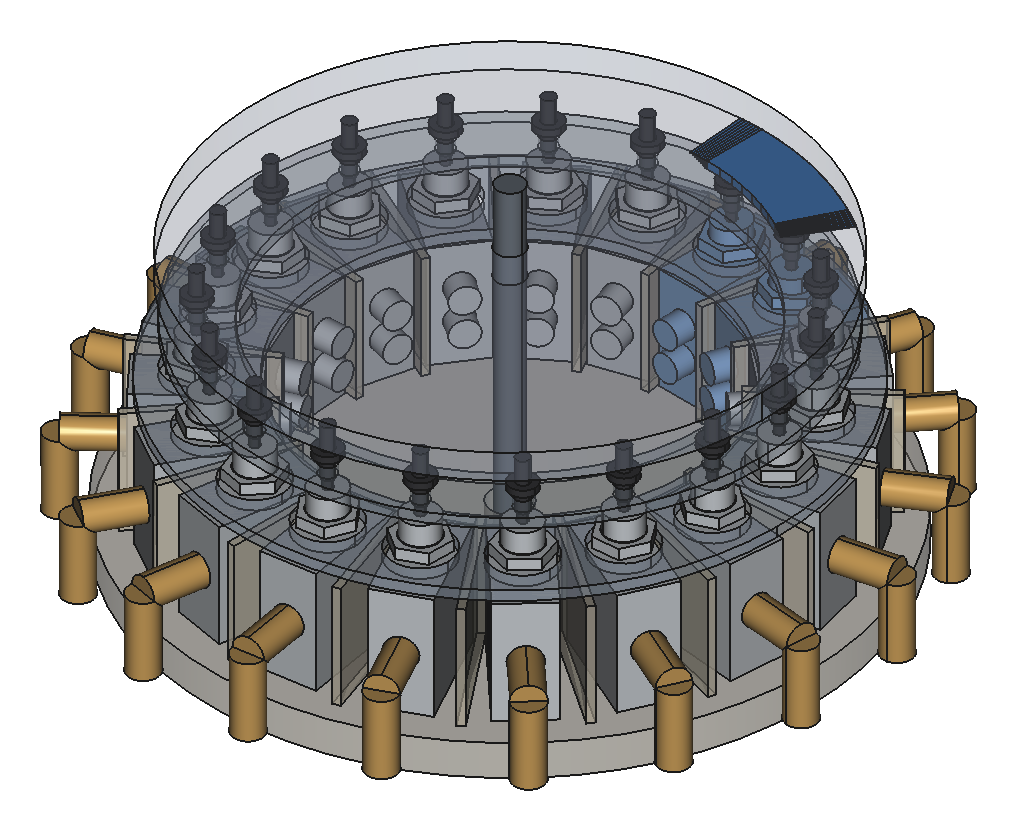
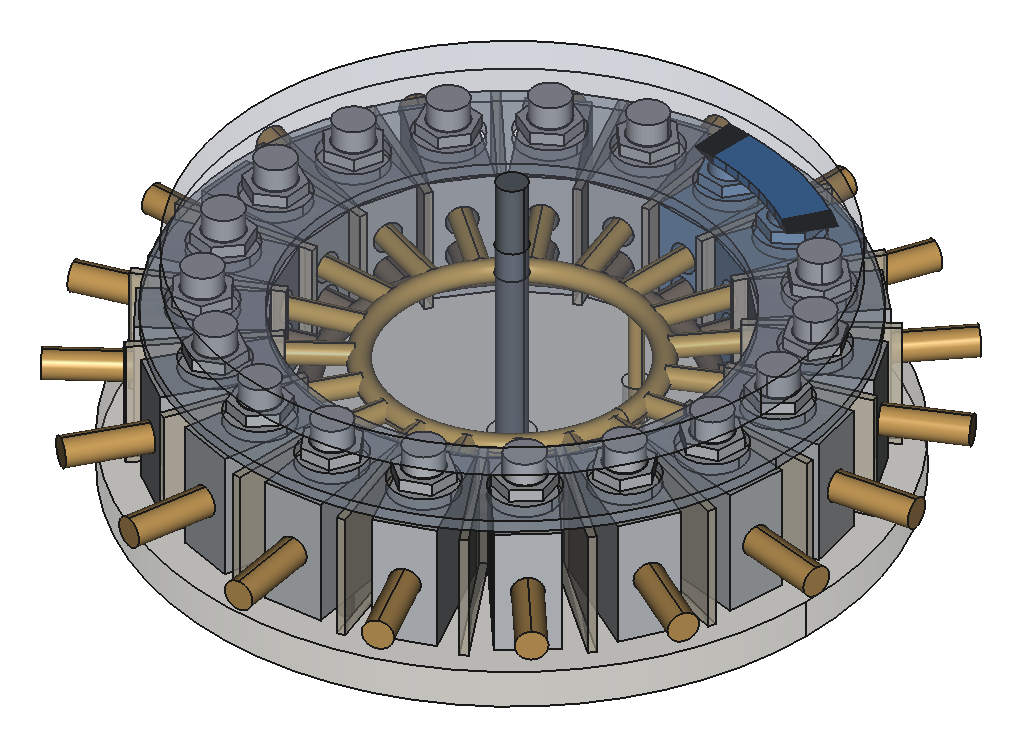
Drop the pushers and run straight tubes to two manifolds.
The cam now bears on the buttons: 0.3 mm off a free one, 2.0 mm
down on a pressed one, 0.4 mm short of the valve stop. A leaves
radially, P and R run inward to a supply ring and an exhaust ring,
and each ring has a straight pipe down through the plate.

diff --git a/mitrailleuse/valve_head.py b/mitrailleuse/valve_head.py
@@ -8,10 +8,14 @@ The ring numbers come from valve_rotor.py. Ports, from the order drawing and the
 holes and no ports.
 
 Stack, muzzle at z = 0, breech toward +z. The head plate is the existing disc (R 98, 10 mm). On its
-breech face a cage of ribs holds the bodies, a retainer clamps them, and a guide ring limits each
-pusher to 2.2 mm so it cannot drive the button past the valve's 2.4 mm stop. The face cam rises
-2.3 mm: 0.3 mm of that is running clearance, so a free button is not rubbed and a pressed one is
-down 2.0 mm.
+breech face a cage of ribs holds the bodies and a retainer clamps them. The face cam bears on the
+buttons themselves: its face sits 0.3 mm off a free button and the lobe presses 2.0 mm, short of
+the valve's own 2.4 mm stop. No separate pushers.
+
+Tubes are straight. A leaves the outer face radially, past the plate rim. P and R run inward to
+two rings (supply is the upper ring, exhaust the lower one). Each ring has its own straight pipe
+down through the plate, so the supply and the exhaust both come out under the head. The cam is a
+solid disc, so those pipes cannot rise through it.
 
   freecadcmd -c "REPO='$PWD'; exec(open('mitrailleuse/valve_head.py').read())"
 """
@@ -43,18 +47,21 @@ PLATE_R, PLATE_T = VR["HEAD_PLATE_R"], 10.0
 PLATE_BORE = 12.0
 SHAFT_D = 8.0
 DEPRESS = VR["PRESS"]        # button travel under the lobe
-APPROACH = 0.3               # base circle stays this clear of a free pusher
+APPROACH = 0.3               # disc face stays this clear of a free button
 LOBE_H = DEPRESS + APPROACH  # 2.3; the valve's own stop is 2.4
-HARD = 2.2                   # pusher flange hits the guide here, short of 2.4
-PUSHER_L = 18.0
-PUSHER_D, NOSE_D = 4.0, 3.0
 PORT_D = 8.0                 # Rc1/8, shown as a plain hole; the thread is not modelled
 PORT_PITCH = 9.5             # order drawing, P to R along the button axis
+SPOKE_OD = 6.0               # straight tubes, P and R; thinner than the port so they clear
+A_OD = 8.0                   # straight tube on A
+A_STICKOUT = 22.0            # past the outer face; the plate rim is inside this
+MAN_R_P, MAN_R_R = 36.0, 48.0
+MAN_TUBE_R = 3.0             # ring tube radius; the two rings stay 9.5 mm apart in z
+FEED_OD = 4.0
+FEED_DOWN = 22.0             # both pipes stick out of the muzzle face of the plate
 POCKET_CLEAR = 0.4           # valve drops into the cage
 RIB_T = 2.2                  # thinner than the 3 mm inner-corner gap
 RETAINER_T = 3.0
 RETAINER_HOLE = 18.0         # clears the nut's corners (14 mm across flats is 16.2 across corners)
-GUIDE_T = 3.0
 CAM_T = 8.0
 FITS = []
 
@@ -129,14 +136,12 @@ z_body1 = z_body0 + BODY_H
 z_tip = z_body0 + OVERALL          # free button tip
 z_ret0 = z_body1
 z_ret1 = z_body1 + RETAINER_T
-# pusher nose sits on the button. Free tail clears the cam base by APPROACH.
-z_tail_free = z_tip + PUSHER_L
-z_cam_base = z_tail_free + APPROACH          # the disc's valve-side face
+z_mid = z_body0 + BODY_H / 2.0
+z_port_r = z_mid - PORT_PITCH / 2.0          # R, toward the muzzle, as on the sketch
+z_port_p = z_mid + PORT_PITCH / 2.0          # P, toward the button
+# disc face clears a free button by APPROACH; the lobe reaches the pressed tip
+z_cam_base = z_tip + APPROACH
 z_cam_back = z_cam_base + CAM_T
-# guide: the flange has HARD mm of travel before it hits, and the working press uses DEPRESS.
-z_guide1 = z_tip + 7.0
-z_guide0 = z_guide1 - GUIDE_T
-z_flange_free = z_guide1 + HARD              # flange's valve-side face, button fully out
 
 
 def valve_angle(j):
@@ -171,35 +176,50 @@ def valve_shape(j):
         holes.append(Part.makeCylinder(PORT_D / 2.0, 14.0, App.Vector(0, y0 - 1.0, z_mid + dz),
                                        App.Vector(0, 1, 0)))
     body = body.cut(holes)
-    stubs = [Part.makeCylinder(PORT_D / 2.0, 5.0, App.Vector(0, y0 + RADIAL, z_mid), App.Vector(0, 1, 0))]
-    for dz in (-PORT_PITCH / 2.0, PORT_PITCH / 2.0):
-        stubs.append(Part.makeCylinder(PORT_D / 2.0, 6.0, App.Vector(0, y0, z_mid + dz), App.Vector(0, -1, 0)))
     nut = hex_prism(NUT_AF, 3.2, z_ret1 + 0.2, 0, R).cut(cyl(11.0, z_ret1, z_ret1 + 4.0, 0, R))
     button = cyl(BUTTON_D, z_ret1 + 3.5 - down, z_tip - down, 0, R)
-    shape = body.fuse(stubs).fuse(nut).fuse(button)
+    shape = body.fuse(nut).fuse(button)
     return spun(shape, math.degrees(ang - math.pi / 2.0))
 
 
-def elbow_shape(j):
-    """Rc1/8 elbow on A: out, then toward the muzzle, past the plate rim."""
-    ang = valve_angle(j)
-    y0 = R + RADIAL / 2.0
-    z_mid = z_body0 + BODY_H / 2.0
-    radial = Part.makeCylinder(4.5, 16.0, App.Vector(0, y0, z_mid), App.Vector(0, 1, 0))
-    out_y = y0 + 16.0
-    down = Part.makeCylinder(4.5, 22.0, App.Vector(0, out_y, z_mid - 22.0), App.Vector(0, 0, 1))
-    return spun(radial.fuse(down), math.degrees(ang - math.pi / 2.0))
+def radial_tube(r0, r1, z, od):
+    """Straight tube along +Y from r0 to r1. r1 may be inside r0."""
+    lo, hi = (r0, r1) if r1 > r0 else (r1, r0)
+    return Part.makeCylinder(od / 2.0, hi - lo, App.Vector(0, lo, z), App.Vector(0, 1, 0))
 
 
-def pusher_shape(j):
-    ang = valve_angle(j)
-    down = DEPRESS if depressed(j) else 0.0
-    x, y = polar(R, ang)
-    nose = z_tip - down
-    tail = nose + PUSHER_L
-    pin = cyl(NOSE_D, nose, nose + 3.0, x, y).fuse(cyl(PUSHER_D, nose + 3.0, tail, x, y))
-    flange = cyl(8.0, z_flange_free - down, z_flange_free - down + 2.0, x, y)
-    return pin.fuse(flange)
+def spun_at(shape, j):
+    return spun(shape, math.degrees(valve_angle(j) - math.pi / 2.0))
+
+
+def outlet_shape(j):
+    """Straight tube on A, radially out, past the plate rim. No turn toward the muzzle."""
+    face = R + RADIAL / 2.0
+    tube = radial_tube(face, face + A_STICKOUT, z_mid, A_OD)
+    return spun_at(tube, j)
+
+
+def spoke_shape(j, z, ring_r):
+    """Straight tube from inside the ring tube to 3 mm into the Ø8 hole."""
+    face = R - RADIAL / 2.0
+    tube = radial_tube(ring_r + 1.0, face + 3.0, z, SPOKE_OD)
+    return spun_at(tube, j)
+
+
+def ring_shape(major, z):
+    ring = Part.makeTorus(major, MAN_TUBE_R)
+    ring.translate(App.Vector(0, 0, z))
+    return ring
+
+
+def feed_angle(k):
+    """Between two valves, so the riser misses the spokes. Opposite sides for P and R."""
+    return valve_angle(0) - step / 2.0 + k * math.pi
+
+
+def feed_shape(k, major, z0, z1):
+    x, y = polar(major, feed_angle(k))
+    return cyl(FEED_OD, z0, z1, x, y)
 
 
 def cage():
@@ -221,26 +241,20 @@ def retainer():
     return s
 
 
-def guide():
-    s = tube(2 * (R + 9.0), 2 * (R - 9.0), z_guide0, z_guide1)
-    for j in range(N):
-        x, y = polar(R, valve_angle(j))
-        s = s.cut(cyl(5.0, z_guide0 - 0.5, z_guide1 + 0.5, x, y))
-    return s
-
-
 def cam():
+    # disc is the rotor; the lobe is only as wide as the button it presses
     r0, r1 = R - 8.0, R + 10.0
+    b0, b1 = R - 6.0, R + 6.0
     disc = tube(2 * r1, SHAFT_D + 0.4, z_cam_base, z_cam_back)
     # angles: x = (pi/2 - ang) * R, plateau x in [0, lp]
     a_rel = math.pi / 2.0                       # release edge, x = 0
     a_hold = math.pi / 2.0 - lobe["lp"] / R     # far end of the plateau
     a_climb = a_hold - lobe["lr"] / R
     a_fire = a_rel + lobe["lr"] / R
-    pad = sector(r0, r1, a_hold, a_rel, z_cam_base - LOBE_H, z_cam_base + 0.05)
-    climb = ramp(r0, r1, a_climb, a_hold, z_cam_base, 0.0, LOBE_H)
-    fire = ramp(r0, r1, a_rel, a_fire, z_cam_base, LOBE_H, 0.0)
-    return disc, pad.fuse(climb).fuse(fire), (r0, r1, a_hold, a_fire)
+    pad = sector(b0, b1, a_hold, a_rel, z_cam_base - LOBE_H, z_cam_base + 0.05)
+    climb = ramp(b0, b1, a_climb, a_hold, z_cam_base, 0.0, LOBE_H, n=16)
+    fire = ramp(b0, b1, a_rel, a_fire, z_cam_base, LOBE_H, 0.0, n=16)
+    return disc, pad.fuse(climb).fuse(fire), (b0, b1, a_hold, a_fire)
 
 
 def shift(obj, vec):
@@ -250,8 +264,8 @@ def shift(obj, vec):
 
 
 def ghost():
-    """See through the disc, the clamp and the plate. The valves, pushers and lobe stay solid."""
-    fade = {"Cam": 82, "Guide": 78, "Retainer": 68, "Head_plate": 55, "Cage": 40}
+    """See through the disc, the clamp and the plate. Valves, tubes, rings and the lobe stay solid."""
+    fade = {"Cam": 82, "Retainer": 68, "Head_plate": 72, "Cage": 40}
     for o in doc.Objects:
         vo = getattr(o, "ViewObject", None)
         if vo is None or not hasattr(vo, "Transparency"):
@@ -261,46 +275,62 @@ def ghost():
 
 
 def explode():
-    """Pull the stack apart along the bore axis. Elbows also step out radially.
+    """Pull the stack apart along the bore axis.
 
-    The shaft stays on the axis and is lengthened so it still reaches the cam.
-    The disc is transparent in this view: the blue lobe is on its underside.
+    Outlets step out, inlet spokes step in, the two rings and their pipes lift off the plate.
+    The shaft stays on the axis and is lengthened so it still reaches the cam. The disc is
+    transparent here: the blue lobe is on its underside.
     """
-    valve_z, retainer_z, guide_z, pusher_z, cam_z = 55.0, 90.0, 108.0, 130.0, 160.0
+    # rings sit clear of the plate; spokes stay on the valves and are not pulled inward
+    valve_z, ring_z, retainer_z, cam_z = 108.0, 56.0, 150.0, 188.0
     for o in list(doc.Objects):
         name = o.Name
         if name in ("Cage",) or name.startswith("Valve_"):
             shift(o, (0, 0, valve_z))
-        elif name.startswith("Elbow_"):
+        elif name.startswith("Outlet_"):
             bb = o.Shape.BoundBox
             cx = (bb.XMin + bb.XMax) / 2.0
             cy = (bb.YMin + bb.YMax) / 2.0
             r = math.hypot(cx, cy) or 1.0
-            shift(o, (22.0 * cx / r, 22.0 * cy / r, valve_z))
+            shift(o, (18.0 * cx / r, 18.0 * cy / r, valve_z))
+        elif name.startswith("Spoke_"):
+            shift(o, (0, 0, valve_z))
+        elif name.startswith("Ring_") or name.startswith("Feed_"):
+            shift(o, (0, 0, ring_z))
         elif name == "Retainer":
             shift(o, (0, 0, retainer_z))
-        elif name == "Guide":
-            shift(o, (0, 0, guide_z))
-        elif name.startswith("Pusher_"):
-            shift(o, (0, 0, pusher_z))
         elif name in ("Cam", "Cam_lobe"):
             shift(o, (0, 0, cam_z))
         elif name == "Shaft":
             o.Shape = cyl(SHAFT_D, -4.0, z_cam_back + 18.0 + cam_z)
-    cam = doc.getObject("Cam")
-    if cam is not None and getattr(cam, "ViewObject", None) is not None:
-        cam.ViewObject.Transparency = 72
+    cam_obj = doc.getObject("Cam")
+    if cam_obj is not None and getattr(cam_obj, "ViewObject", None) is not None:
+        cam_obj.ViewObject.Transparency = 72
 
 
-plate = tube(2 * PLATE_R, PLATE_BORE, 0.0, PLATE_T)
+def head_plate(feeds):
+    s = tube(2 * PLATE_R, PLATE_BORE, 0.0, PLATE_T)
+    for feed in feeds:
+        bb = feed.BoundBox
+        cx = (bb.XMin + bb.XMax) / 2.0
+        cy = (bb.YMin + bb.YMax) / 2.0
+        s = s.cut(cyl(FEED_OD + 3.0, -1.0, PLATE_T + 1.0, cx, cy))
+    return s
+
+
 ribs = cage()
 hold = retainer()
-ring_guide = guide()
 disc, pad, cam_win = cam()
 shaft = cyl(SHAFT_D, -4.0, z_cam_back + 18.0)
 valves = [valve_shape(j) for j in range(N)]
-elbows = [elbow_shape(j) for j in range(N)]
-pushers = [pusher_shape(j) for j in range(N)]
+outlets = [outlet_shape(j) for j in range(N)]
+spokes_p = [spoke_shape(j, z_port_p, MAN_R_P) for j in range(N)]
+spokes_r = [spoke_shape(j, z_port_r, MAN_R_R) for j in range(N)]
+ring_p = ring_shape(MAN_R_P, z_port_p)
+ring_r = ring_shape(MAN_R_R, z_port_r)
+feed_p = feed_shape(0, MAN_R_P, -FEED_DOWN, z_port_p)
+feed_r = feed_shape(1, MAN_R_R, -FEED_DOWN, z_port_r)
+plate = head_plate((feed_p, feed_r))
 
 
 # ---------------------------------------------------------------- checks
@@ -317,28 +347,46 @@ rib_gap = min(valves[j].distToShape(ribs)[0] for j in (0, 1, 5))
 check(rib_gap > 0.1, "cage rib clears the bodies by %.2f mm" % rib_gap)
 check(valves[0].common(plate).Volume < 1.0, "valves sit on the plate, common volume %.1f mm3"
       % valves[0].common(plate).Volume)
-check(elbows[0].distToShape(plate)[0] > 1.0, "the A elbow clears the plate by %.1f mm"
-      % elbows[0].distToShape(plate)[0])
-check(elbows[0].distToShape(elbows[1])[0] > 2.0, "neighbouring A elbows clear by %.1f mm"
-      % elbows[0].distToShape(elbows[1])[0])
+check(outlets[0].distToShape(plate)[0] > 2.0, "the straight A tube clears the plate by %.1f mm"
+      % outlets[0].distToShape(plate)[0])
+check(outlets[0].distToShape(outlets[1])[0] > 2.0, "neighbouring A tubes clear by %.1f mm"
+      % outlets[0].distToShape(outlets[1])[0])
+check(outlets[0].BoundBox.YMax > PLATE_R + 8.0, "A tube ends at R %.0f, past the plate"
+      % outlets[0].BoundBox.YMax)
+check(spokes_p[0].distToShape(spokes_p[1])[0] > 1.0, "neighbouring P tubes clear by %.1f mm"
+      % spokes_p[0].distToShape(spokes_p[1])[0])
+check(spokes_p[0].distToShape(spokes_r[0])[0] > 1.0, "P and R tubes on one valve clear by %.1f mm"
+      % spokes_p[0].distToShape(spokes_r[0])[0])
+check(ring_p.distToShape(ring_r)[0] > 1.0, "supply and exhaust rings clear by %.1f mm"
+      % ring_p.distToShape(ring_r)[0])
+check(ring_r.distToShape(ribs)[0] > 0.5, "exhaust ring clears the cage by %.1f mm"
+      % ring_r.distToShape(ribs)[0])
+check(spokes_p[0].common(ring_p).Volume > 1.0, "P tube joins the supply ring")
+check(spokes_r[0].common(ring_r).Volume > 1.0, "R tube joins the exhaust ring")
+check(feed_p.common(ring_p).Volume > 1.0 and feed_r.common(ring_r).Volume > 1.0,
+      "each ring has its own pipe")
+check(feed_p.distToShape(ring_r)[0] > 1.0, "the supply pipe clears the exhaust ring by %.1f mm"
+      % feed_p.distToShape(ring_r)[0])
+spoke_feed = min(feed_p.distToShape(spokes_p[j])[0] for j in (0, 1))
+check(spoke_feed > 0.4, "supply pipe clears the nearest P tubes by %.1f mm" % spoke_feed)
+check(min(feed_p.distToShape(plate)[0], feed_r.distToShape(plate)[0]) > 0.4,
+      "both pipes clear the holes in the plate")
 
 free_j = next(j for j in range(N) if not depressed(j))
 press_j = next(j for j in range(N) if depressed(j))
-# tail to cam: free pusher ends APPROACH short of the base, pressed tail meets the lobe
-free_tail_z = z_tip + PUSHER_L
-press_tail_z = z_tip - DEPRESS + PUSHER_L
-check(abs((z_cam_base - free_tail_z) - APPROACH) < 1e-6,
-      "free pusher clears the cam base by %.1f mm" % APPROACH)
-check(abs((z_cam_base - LOBE_H) - press_tail_z) < 1e-6,
-      "pressed pusher meets the lobe, button down %.1f mm" % DEPRESS)
-check(LOBE_H < VR["STROKE"] + 1e-9 and DEPRESS > VR["SWITCH"],
-      "lobe %.1f mm is under the %.1f stop and the button passes the %.1f switch"
-      % (LOBE_H, VR["STROKE"], VR["SWITCH"]))
-# hard stop: after DEPRESS mm the flange still has HARD - DEPRESS before the guide
-left = HARD - DEPRESS
-check(0.1 < left < 0.5, "hard stop leaves %.1f mm before the flange, short of the 2.4 stop" % left)
-check(z_guide1 < z_flange_free - 1.0 and z_cam_base > z_tail_free,
-      "guide, pusher and cam are in that order from the button")
+free_disc = valves[free_j].distToShape(disc)[0]
+check(abs(free_disc - APPROACH) < 0.05, "free button clears the disc face by %.2f mm" % free_disc)
+press_d = valves[press_j].distToShape(pad)[0]
+press_hit = valves[press_j].common(pad).Volume
+check(press_d < 0.05 and press_hit < 20.0,
+      "pressed button meets the lobe, common volume %.1f mm3" % press_hit)
+free_lobe = min(valves[j].distToShape(pad)[0] for j in range(N) if not depressed(j))
+check(free_lobe > 0.05, "free buttons stay off the lobe, closest %.2f mm" % free_lobe)
+nut_top = z_ret1 + 3.4
+check(z_cam_base - LOBE_H > nut_top + 2.0, "lobe stays %.1f mm above the nut"
+      % (z_cam_base - LOBE_H - nut_top))
+check(VR["STROKE"] - DEPRESS > 0.3, "press %.1f mm leaves %.1f mm to the valve stop"
+      % (DEPRESS, VR["STROKE"] - DEPRESS))
 check(shaft.distToShape(disc)[0] > 0.1, "shaft clears the cam bore")
 check(hold.distToShape(valves[free_j])[0] < 0.2, "retainer lands on the body")
 check(hold.common(valves[free_j]).Volume < 1.0, "retainer does not cut the valve")
@@ -364,17 +412,22 @@ steel = doc.addObject("App::DocumentObjectGroup", "Steel")
 add("Head_plate", plate, (0.62, 0.60, 0.55), printed)
 add("Cage", ribs, (0.78, 0.74, 0.66), printed)
 add("Retainer", hold, (0.55, 0.62, 0.70), printed)
-add("Guide", ring_guide, (0.45, 0.50, 0.55), printed)
 add("Cam", disc, (0.55, 0.62, 0.72), printed)
 add("Cam_lobe", pad, (0.16, 0.45, 0.78), printed)
+add("Ring_P", ring_p, (0.78, 0.62, 0.28), bought)
+add("Ring_R", ring_r, (0.45, 0.38, 0.30), bought)
+add("Feed_P", feed_p, (0.78, 0.62, 0.28), bought)
+add("Feed_R", feed_r, (0.45, 0.38, 0.30), bought)
 for j, v in enumerate(valves):
     color = (0.45, 0.62, 0.82) if depressed(j) else (0.72, 0.74, 0.76)
     add("Valve_%02d" % j, v, color, bought)
-for j, e in enumerate(elbows):
-    add("Elbow_%02d" % j, e, (0.72, 0.55, 0.28), bought)
+for j, tube_a in enumerate(outlets):
+    add("Outlet_%02d" % j, tube_a, (0.72, 0.55, 0.28), bought)
+for j, sp in enumerate(spokes_p):
+    add("SpokeP_%02d" % j, sp, (0.78, 0.62, 0.28), bought)
+for j, sp in enumerate(spokes_r):
+    add("SpokeR_%02d" % j, sp, (0.45, 0.38, 0.30), bought)
 add("Shaft", shaft, (0.35, 0.38, 0.42), steel)
-for j, p in enumerate(pushers):
-    add("Pusher_%02d" % j, p, (0.15, 0.15, 0.16), steel)
 
 sys.stdout.flush()
 try:
@@ -399,8 +452,9 @@ except Exception:
 
 print("valve head, %d barrels, buttons on R %.1f" % (N, R))
 print("  plate R %.0f x %.0f, cage ribs %.1f mm, retainer clamps the body top" % (PLATE_R, PLATE_T, RIB_T))
-print("  two buttons down, lobe %.1f mm = %.1f approach + %.1f press, hard stop %.1f" % (LOBE_H, APPROACH, DEPRESS, HARD))
-print("  A elbows outward, P and R stubs inward %.1f mm apart" % PORT_PITCH)
+print("  disc on the buttons, lobe %.1f mm = %.1f clearance + %.1f press, %.1f left to the stop"
+      % (LOBE_H, APPROACH, DEPRESS, VR["STROKE"] - DEPRESS))
+print("  straight A tubes out, P and R tubes in to rings at R %.0f and %.0f" % (MAN_R_P, MAN_R_R))
 print("concept only: valves are not measured, do not slice")
 ok = all(FITS)
 print("checks: %s" % ("OK" if ok else "FAIL"))

diff --git a/docs/status.md b/docs/status.md
@@ -92,7 +92,7 @@
 | `mitrailleuse_concepts.py`, `concepts_renders.py` | **живое** | Эскизы компоновки массами: концепт A «Монтиньи» выбран (пакет стоит, редуктор 5:1, муфта на гашетке); B «Гатлинг» (крутится пакет) — для сравнения, не развивается. Головка в эскизе всё ещё ниппельная и после стенда Б устарела: новая — кольцо покупных клапанов (`valve_rotor.py`, `docs/rotor.md`), в эскиз переедет, когда клапаны обмерят. У A задний блок общий для 16 и 19: рама по большему пакету (R 99), меняются плиты пакета, шланги и головка. |
 | `skin/ratling_skin.py`, `skin/run_skin.py` | **живое** | Скин «ратлинг» поверх концепта A: только внешний вид, не детали (`docs/skin.md`). Параметры `BARRELS` (16 / 19), `TOP` (ручка: стойка, арка, треугольник, румпель, большая петля, поперечная), `GRIP` (рукоять с гашеткой: приклад старого пистолета, лопатки, вниз в дужке, сбоку), `INLET` (где входят шланг и вал), `DRIVE` (гибкий вал или кривошип на барабане), `SHIELD` (щиток: круг, шестерня, с шипами, щит, треугольник), `GRIP_ROLL` и `TOP_ROLL` (поворот рукояти и ручки переноски вокруг оси, для стрельбы от бедра), `SIGHT` (прицелы), `SCALE` (бутылка и метровая линейка для масштаба), `DEPTH`. Геометрию концепта не трогает, зазоры декора проверяет; картинки в `exports/ratling_skin/`. |
 | `valve_rotor.py` | **живое** | Числа головки на 19 покупных клапанах 3/2 (обычный Python). Куплено 20, один запасной; кольцо на 16 и на 20 в том же расчёте — сравнение и проверка посадки. Два кулачка, момент от неизмеренного усилия кнопки. Рисует эскиз `docs/img/valve_rotor.svg`. Модель концепта — `valve_head.py`. |
-| `valve_head.py` | **живое** | Концепт головки на 19 в FreeCAD: плита R 98, обойма, прижим, клапаны, уголки A, толкатели с упором 2.2 мм, торцевой кулачок. Не для слайсера, пока клапаны не обмерены (`docs/rotor.md`). Картинки — `docs/img/valve_head_ghost.png` (диск и прижим просвечивают) и `docs/img/valve_head_explode.png` (слои разнесены), через `SHOW=ghost` и `SHOW=explode`. В модели диск целый. Раму (`rear_frame.py`) под него не перекладывать. |
+| `valve_head.py` | **живое** | Концепт головки на 19 в FreeCAD: плита R 98, обойма, прижим, клапаны, прямые трубки A наружу и P/R внутрь на два кольца, торцевой кулачок на самих кнопках. Отдельных толкателей нет. Не для слайсера, пока клапаны не обмерены (`docs/rotor.md`). Картинки — `docs/img/valve_head_ghost.png` и `docs/img/valve_head_explode.png`. В модели диск целый. Раму (`rear_frame.py`) под него не перекладывать. |
 | `rotor_timing.py` | **заморожено** | Расчёт ниппельного ротора: кулачки, силы, фазы, `docs/img/rotor_timing.svg`. Схема провалена на стенде Б. Числа в разделе «Ниппели» `docs/rotor.md` отсюда; для новой головки не использовать. |
 | `head_bench.py`, `head_bench_plates.sh` | **провален** | Стенд Б: один порт головки на ползуне с двумя ниппелями 5V1. Собран и 2026-11-10 провален — ниппели текут сильно (`docs/rotor.md`, `docs/test-plan.md`). Не чинить и не печатать снова. |
 | `rotor_bench.py` | **заморожено** | Стенд В: ниппельный ротор на 16 (и на 19 при `ROTOR_N = 19`) под четвертью блока, ручка через конические 1:1 и 5:1, стопор, разобщитель. После стенда Б не печатать: головка на ниппелях в ружьё не идёт. `rear_frame.py` всё ещё берёт эту головку как есть — раму не перекладывать, пока нет головки на клапанах. |
